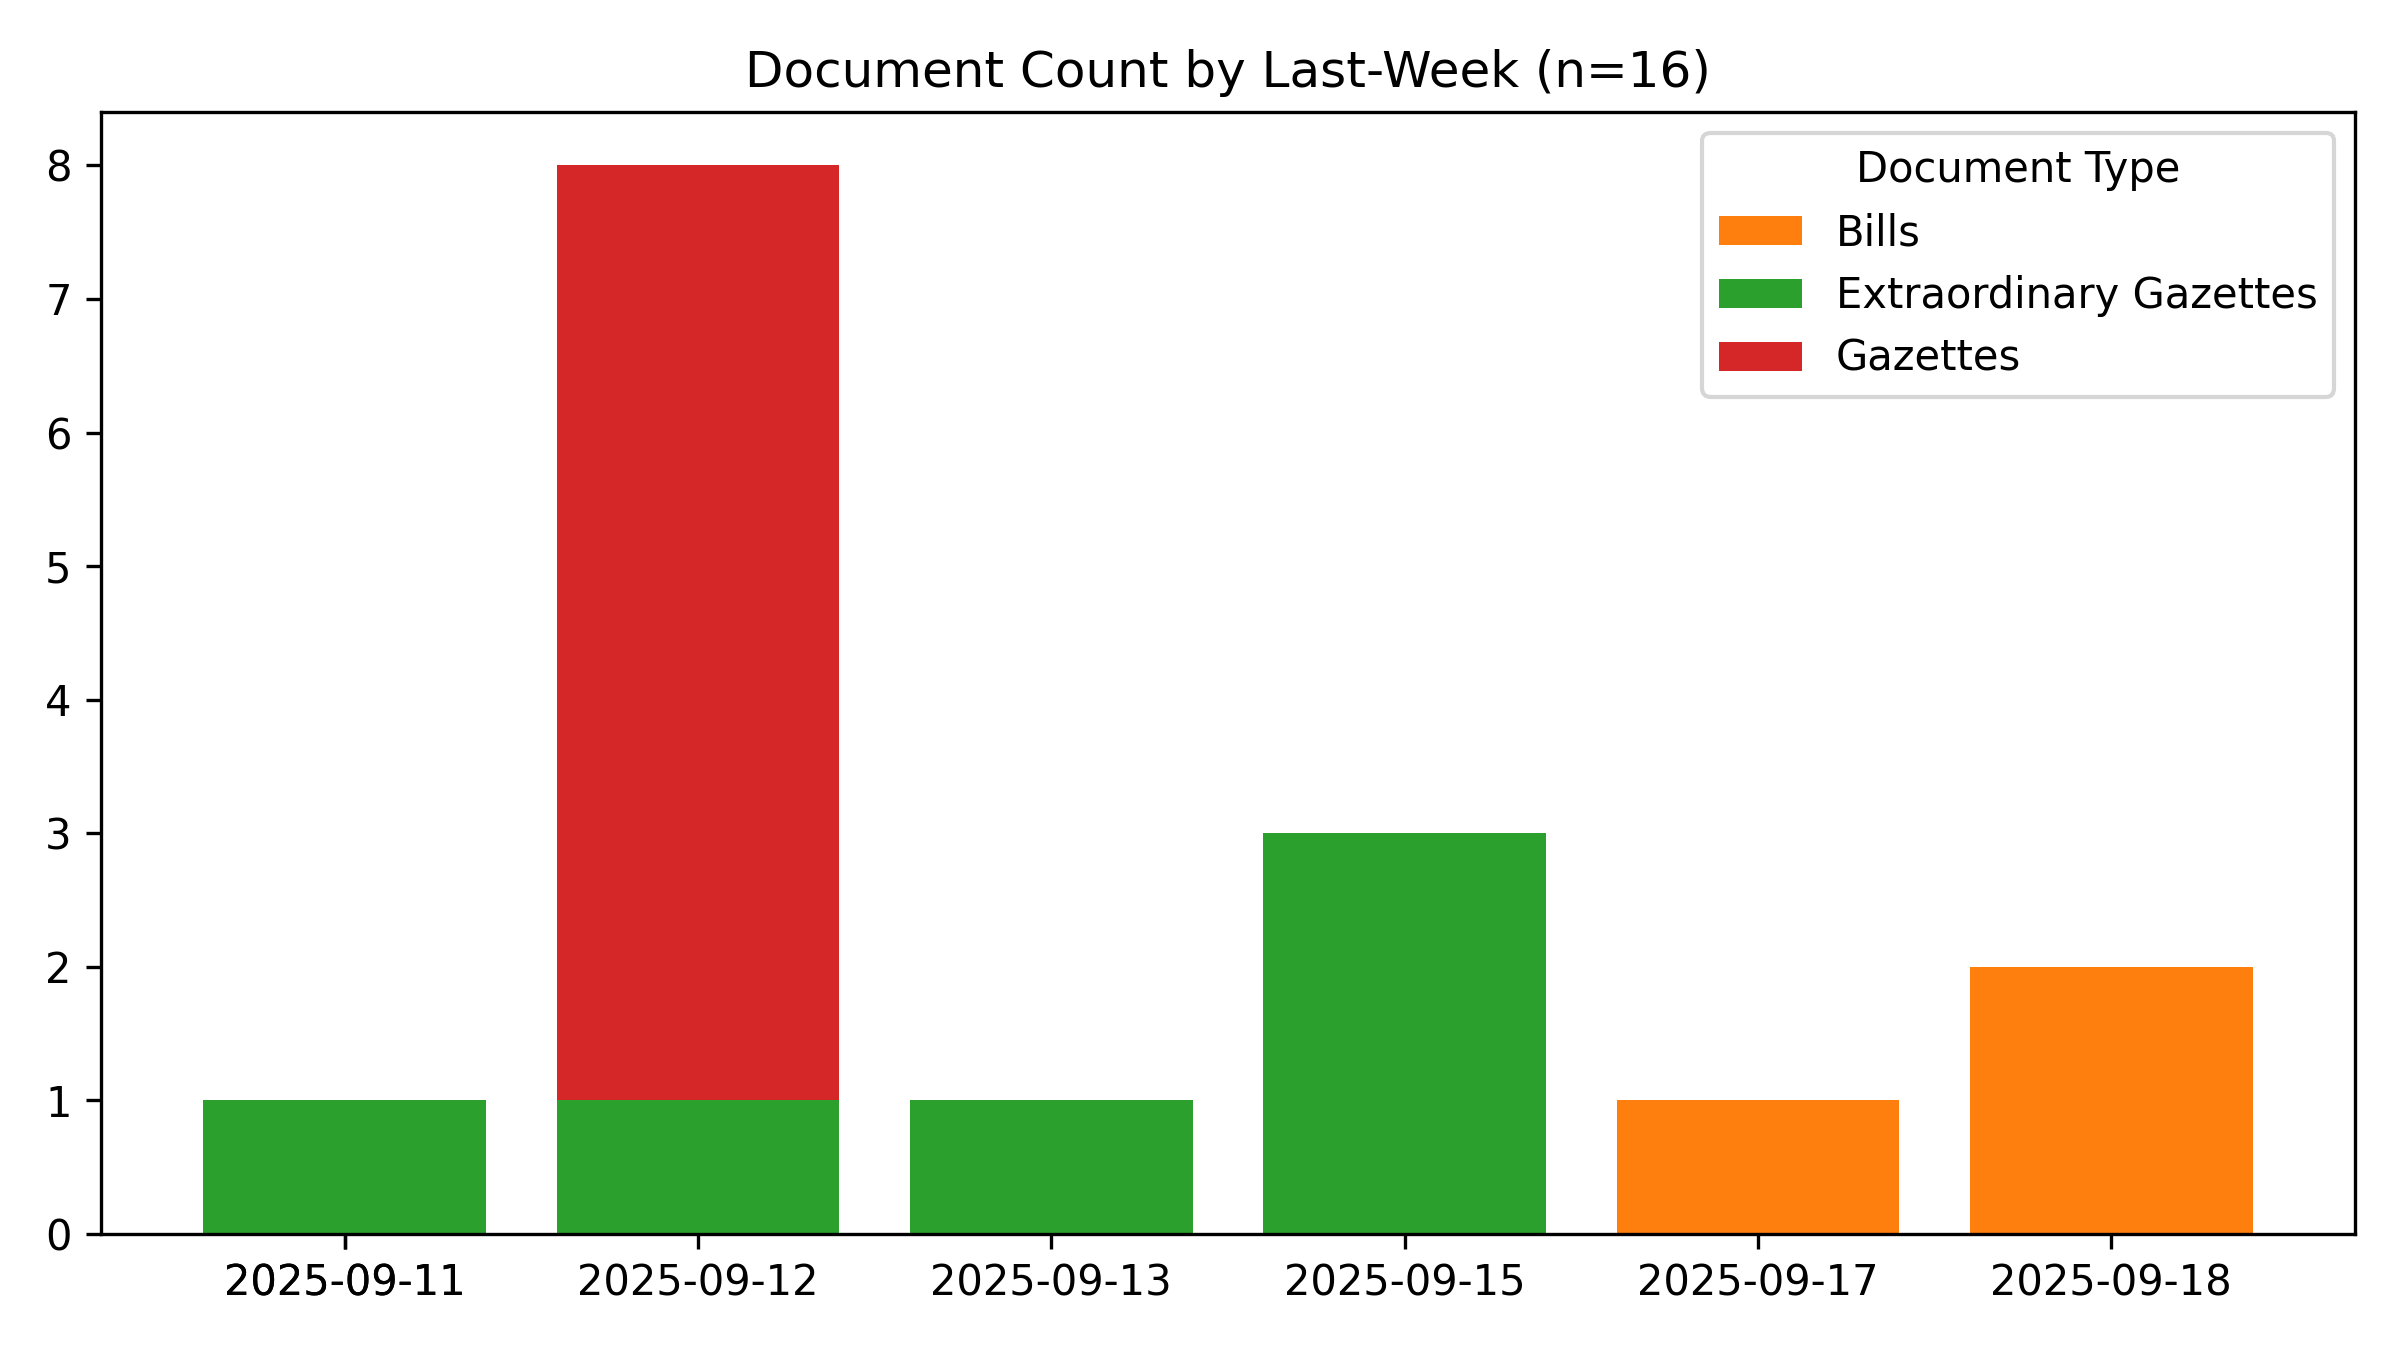
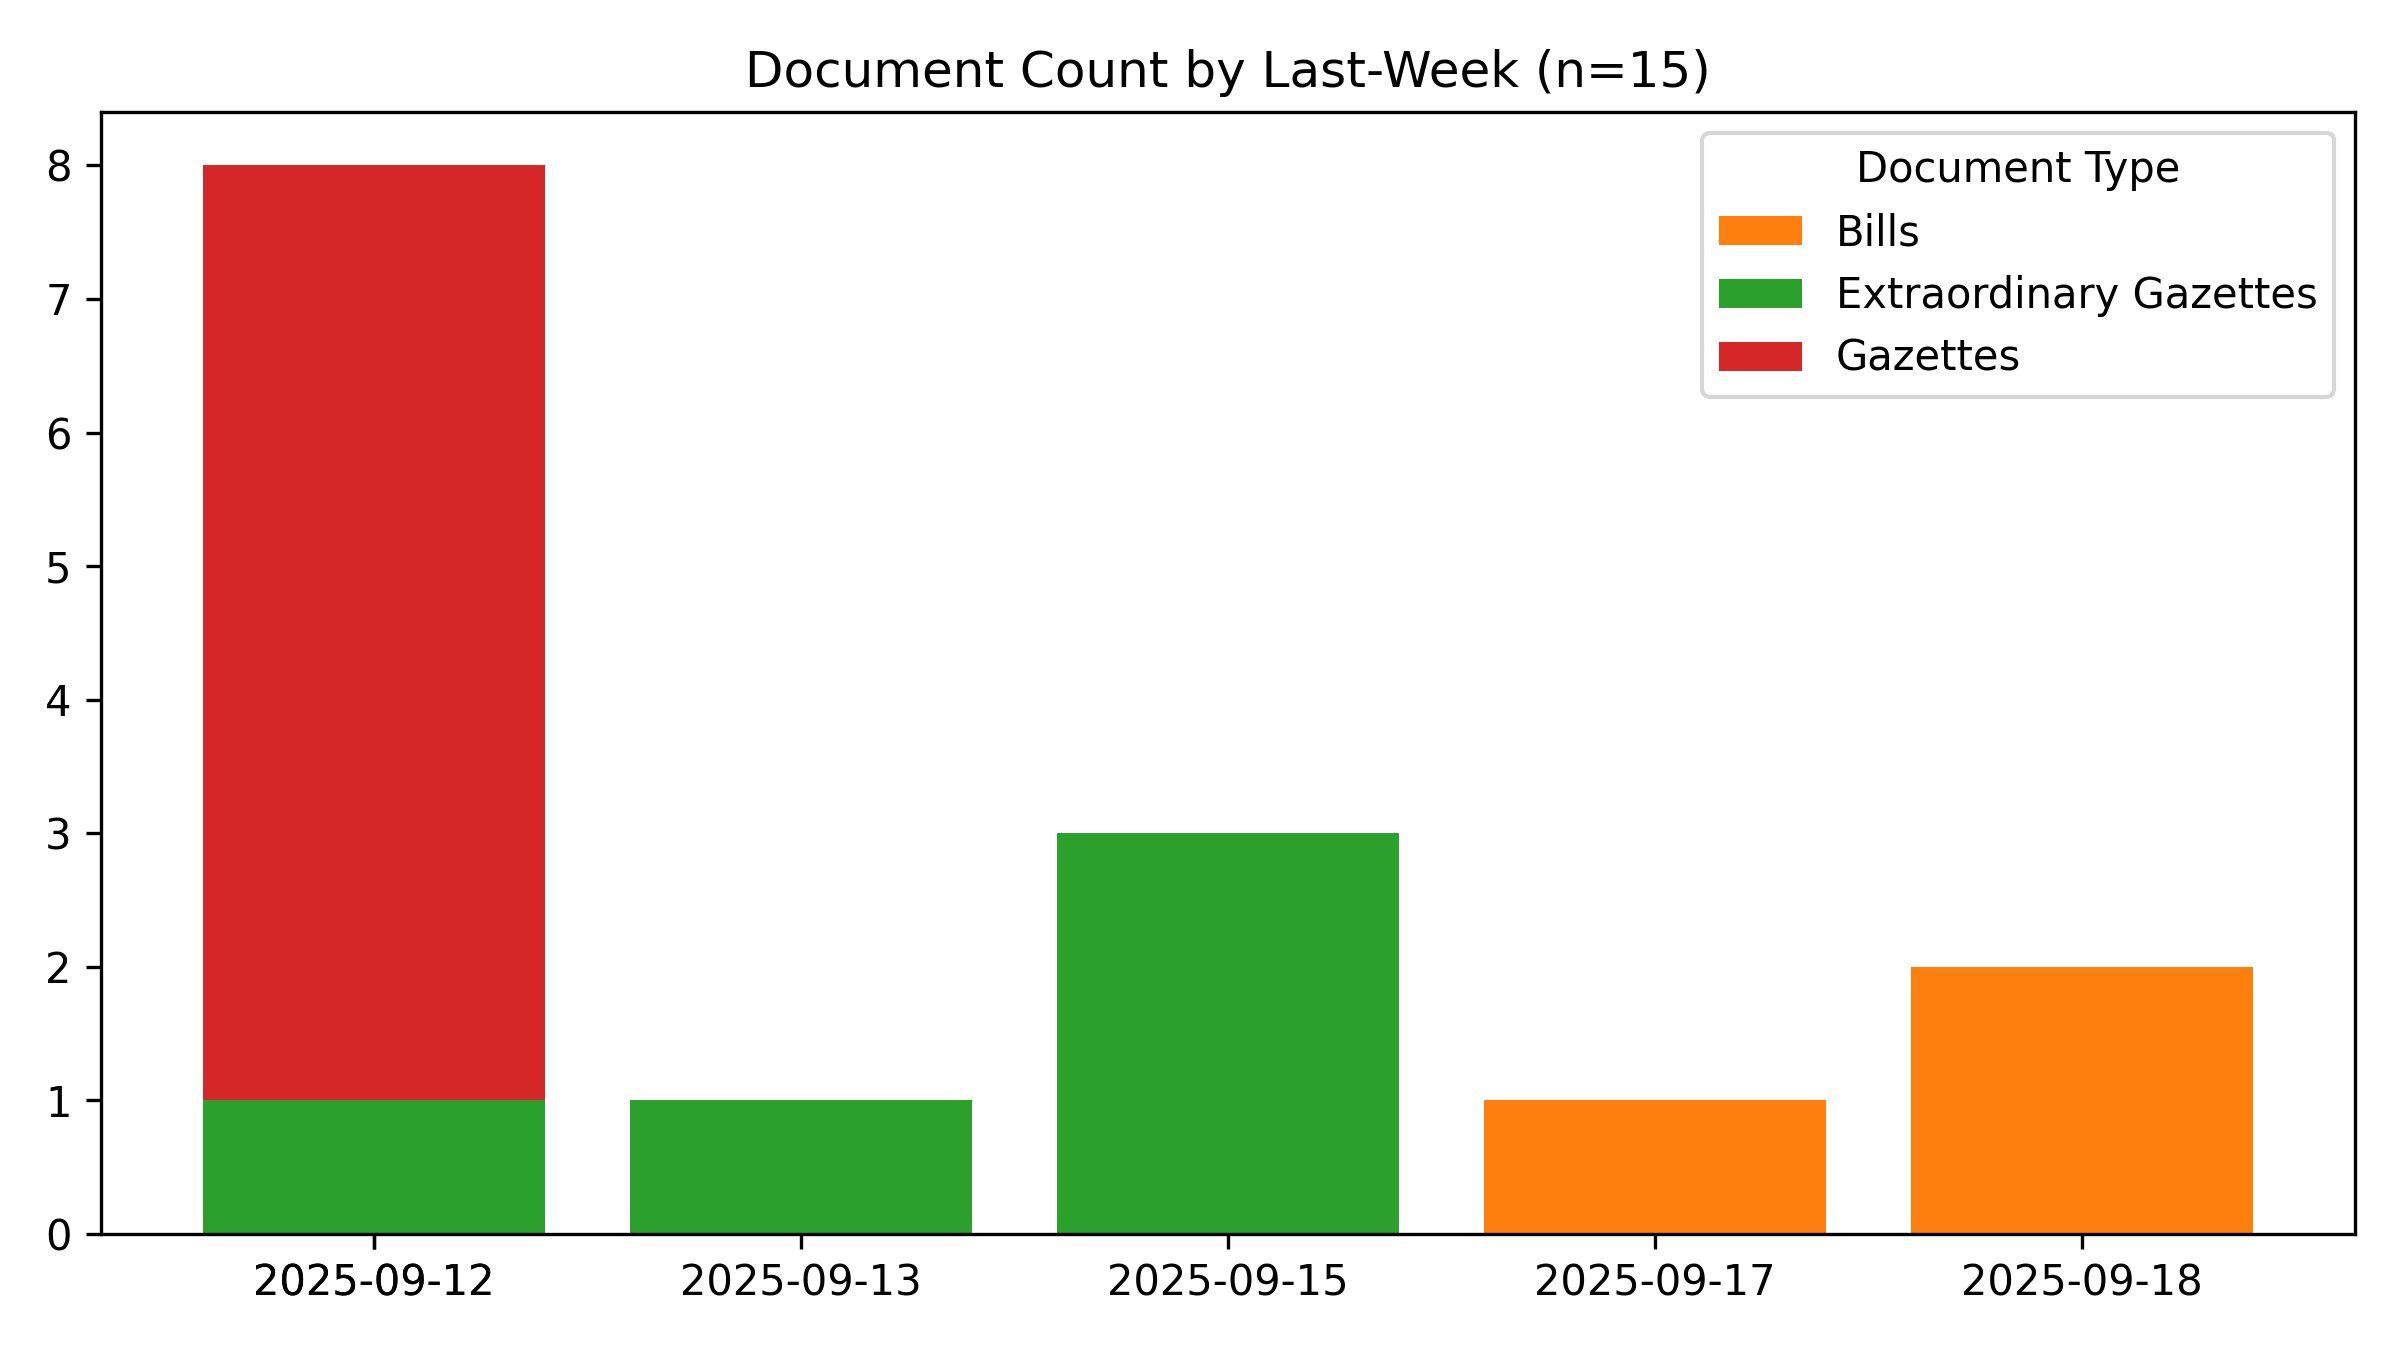
🤖 [build_readme.yml] 2025-09-19-0015

Changed region(s): [[0.0625, 0.1244, 0.8438, 0.9644], [0.8125, 0.9333, 0.9375, 0.9644], [0.6875, 0.0311, 0.7188, 0.0622]]

diff --git a/README.md b/README.md
@@ -1,6 +1,6 @@
 # #SriLanka 🇱🇰 - Legal Documents #Dataset
 
-*Last Updated **2025-09-19 05:12:57**.*
+*Last Updated **2025-09-19 05:45:13**.*
 
 **44,667** documents (24.4 MB), from 1981-01-22 to 2025-09-18.
 
@@ -54,7 +54,7 @@ For best results, use a desktop browser.
 
 ## Recent Documents (Published during the last 7 days)
 
-**16** Documents
+**15** Documents
 
 - ✍ [2025-09-18] [Protection of Occupants - GS](https://github.com/nuuuwan/lk_legal_docs_data/tree/data_2020s/data/bills/2025/634-2025)
 - ✍ [2025-09-18] [Rent (Repeal) - GS](https://github.com/nuuuwan/lk_legal_docs_data/tree/data_2020s/data/bills/2025/633-2025)
@@ -71,4 +71,3 @@ For best results, use a desktop browser.
 - 📢 [2025-09-12] [(IIB) - Advertising](https://github.com/nuuuwan/lk_legal_docs_data/tree/data_2020s/data/gazettes/2025/2025-09-12-iib-advertising)
 - 📢 [2025-09-12] [(IIA) - Advertising](https://github.com/nuuuwan/lk_legal_docs_data/tree/data_2020s/data/gazettes/2025/2025-09-12-iia-advertising)
 - 📢 [2025-09-12] [(I) - General](https://github.com/nuuuwan/lk_legal_docs_data/tree/data_2020s/data/gazettes/2025/2025-09-12-i-general)
-- 🚨 [2025-09-11] [2453/24](https://github.com/nuuuwan/lk_legal_docs_data/tree/data_2020s/data/extra-gazettes/2025/2453-24)
